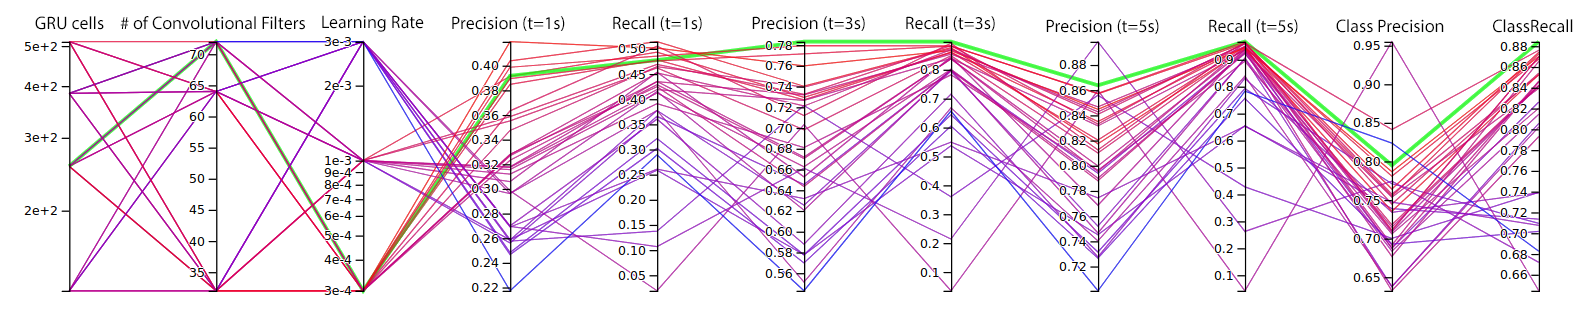
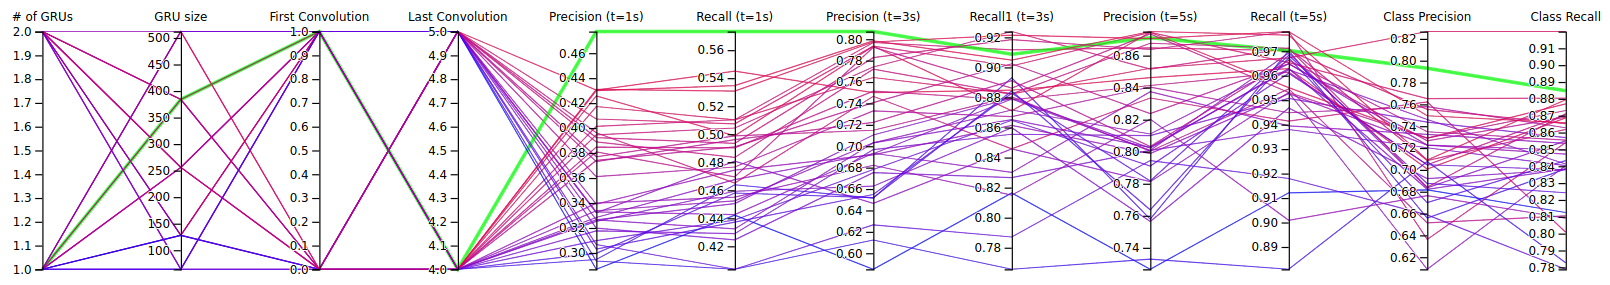
Updated RQ5 with new numbers

diff --git a/7_3_results.tex b/7_3_results.tex
@@ -140,14 +140,14 @@ The 100\% recalls are accompanied with a low precision; achieving that is not di
 The setting that got most of the best numbers is Pelt algorithm using an L1 cost function and a high penalty coefficient of 1,000. However, please note that Pelt is a quite slow algorithm that could easily become infeasible to run on larger dataset, as it was the case for the first two RQs. 
 As a matter of fact, running Pelt took more than 14 hours on the same machine that performed all other CPD algorithms in less than 1 hour. What you see in table~\ref{tab:cpd_paparazzi} is the summary of the results of more than 23,800 experiments. 
 
-Comparing the baseline results with the neural network model's results in the last three rows of the table, you can see improvements of 48.9\%, 26.83\%, and 11.46\% in F1 scores compared to the best numbers in the baselines (for $\tau = 1, 3, 5$ seconds respectively). Although this model still performed better than the baselines, the improvement margin was higher in RQ1. (see the RQ1 results summary box and the paragraph above that). % in section~\ref{sec:results}). 
+Comparing the baseline results with the neural network model's results in the last three rows of the table, you can see improvements of 23.35\%, 26.87\%, and 13.86\% in F1 scores compared to the best numbers in the baselines (for $\tau = 1, 3, 5$ seconds respectively). Although this model still performed better than the baselines, the improvement margin was higher in RQ1. (see the RQ1 results summary box and the paragraph above that). % in section~\ref{sec:results}). 
 However, you can see that the scores that this approach achieved are not low, but the baselines could do a better job on Paparazzi's data compared to MicroPilot's, therefore shrinking the margin of improvement. 
 It can be due to the fact that the new dataset is tiny compared to MP, classic machine learning algorithms can do better so a deep learning model cannot shine here as it could for MP. 
 As a reminder: Paparazzi dataset consists of ~300 tests, each containing up to 2,500 samples vs. ~900 tests in MP with lengths up to 18,000 samples. 
 It is worth mentioning that both in the first two RQs and here, the variation in baselines performances was way higher while my deep learning approach shows a more consistent performance; check the second column (recall with $\tau=1$s) for example. 
 
 \begin{rqanswer}
-The proposed approach was applied on another similar software system with a smaller dataset size and showed a near 49\% improvement over the baselines, confirming that it is a feasible approach even with smaller dataset size. The lower margin of improvement compared to RQ1 is attributed to the baselines performing better on this data, rather than my approach not performing good enough.
+The proposed approach was applied on another similar software system with a smaller dataset size and showed a near 27\% improvement over the baselines (with a 94\% F1 score), confirming that it is a feasible approach even with smaller dataset size. The lower margin of improvement compared to RQ1 is attributed to the baselines performing better on this data, rather than my approach not performing good enough.
 \end{rqanswer}
 
 \begin{sidewaystable}
@@ -169,37 +169,37 @@ The proposed approach was applied on another similar software system with a smal
   \textbf{F1} \\
                                                   &              &   & \multicolumn{3}{c}{$\tau=1$s} & \multicolumn{3}{c}{$\tau=3$s} & \multicolumn{3}{c}{$\tau=5$s} \\  \toprule
 \multirow{3}{*}{\textbf{Autoregressive Model}}
-    & Bottom Up & 500  &       13.65\% &    14.13\% & 18.89\% &        39.73\% &     36.40\% & 36.14\% &        57.11\% &     53.20\% & 50.04\% \\
-    & Pelt & 500  &       13.56\% &    13.85\% & 19.03\% &        39.67\% &     36.17\% & 36.03\% &        56.97\% &     52.89\% & 49.83\% \\
-    & Window Based & 100  &       15.97\% &     7.59\% & 13.54\% &        45.47\% &     20.40\% & 29.56\% &        64.16\% &     30.76\% & 41.20\% \\ \midrule
+    & Bottom Up    & 500  & 13.65\% &    14.13\% & 18.89\% & 39.73\% &     36.40\% & 36.14\% & 57.11\% &     53.20\% & 50.04\% \\
+    & Pelt         & 500  & 13.56\% &    13.85\% & 19.03\% & 39.67\% &     36.17\% & 36.03\% & 56.97\% &     52.89\% & 49.83\% \\
+    & Window Based & 100  & 15.97\% &     7.59\% & 13.54\% & 45.47\% &     20.40\% & 29.56\% & 64.16\% &     30.76\% & 41.20\% \\ \midrule
 \multirow{3}{*}{\textbf{Least Absolute Deviation}}
-    & Window Based & 100  &       24.50\% &    15.92\% & 19.85\% &        56.39\% &     37.24\% & 44.53\% &        68.94\% &     48.20\% & 56.23\% \\
-    & Pelt & 1000 &       \textbf{26.74\%} &    34.08\% & 29.92\% &        \textbf{60.77\%} &     77.32\% & \textbf{67.74\%} &        \textbf{74.73\%} &     93.16\% & \textbf{82.61\%} \\
-    & Bottom Up & 1000 &       26.66\% &\textbf{34.99\%}& 30.35\% &        60.11\% &     78.14\% & 67.61\% &        72.85\% &     92.94\% & 81.30\% \\ \midrule
+    & Window Based & 100  & 24.50\% &    15.92\% & 19.85\% & 56.39\% &     37.24\% & 44.53\% &        68.94\% &     48.20\% & 56.23\% \\
+    & Pelt         & 1000 &\textbf{26.74\%}&34.08\% & 29.92\% &\textbf{60.77\%}&     77.32\% &\textbf{67.74\%}&\textbf{74.73\%}&     93.16\% &\textbf{82.61\%}\\
+    & Bottom Up    & 1000 & 26.66\% &\textbf{34.99\%}& 30.35\% &        60.11\% &     78.14\% & 67.61\% &        72.85\% &     92.94\% & 81.30\% \\ \midrule
 \multirow{3}{*}{\textbf{Least Squared Deviation}}
-    & Window Based & 1000 &       25.01\% &    16.14\% & 20.26\% &        54.58\% &     35.77\% & 42.96\% &        68.73\% &     48.11\% & 56.18\% \\
-    & Pelt & 1000 &       21.28\% &    80.04\% & 33.49\% &        51.05\% &     99.58\% & 67.20\% &        65.36\% & \textbf{99.97\%} & 78.76\% \\
-    & Bottom Up & 1000 &       21.30\% &    81.24\% & \textbf{33.62\%} &        50.98\% &\textbf{99.50\%}& 67.12\% &        65.24\% &\textbf{99.97\%}& 78.66\% \\ \midrule
+    & Window Based & 1000 & 25.01\% &    16.14\% & 20.26\% & 54.58\% &     35.77\% & 42.96\% & 68.73\% &     48.11\% & 56.18\% \\
+    & Pelt         & 1000 & 21.28\% &    80.04\% & 33.49\% & 51.05\% &     99.58\% & 67.20\% & 65.36\% & \textbf{99.97\%} & 78.76\% \\
+    & Bottom Up    & 1000 & 21.30\% &    81.24\% & \textbf{33.62\%}  &     50.98\% &\textbf{99.50\%}& 67.12\% &        65.24\% &\textbf{99.97\%}& 78.66\% \\ \midrule
 \multirow{3}{*}{\textbf{Linear Model Change}}
-    & Bottom Up & 100  &        7.39\% &     0.39\% &  9.98\% &        27.44\% &      1.49\% & 10.27\% &        52.51\% &      2.75\% &  9.90\% \\
-    & Window Based & 100  &        7.39\% &     0.39\% &  9.98\% &        27.44\% &      1.49\% & 10.27\% &        52.51\% &      2.75\% &  9.90\% \\
-    & Pelt & 100  &        7.39\% &     0.39\% &  9.98\% &        27.44\% &      1.49\% & 10.27\% &        52.51\% &      2.75\% &  9.90\% \\ \midrule
+    & Bottom Up    & 100  &  7.39\% &     0.39\% &  9.98\% & 27.44\% &      1.49\% & 10.27\% & 52.51\% &      2.75\% &  9.90\% \\
+    & Window Based & 100  &  7.39\% &     0.39\% &  9.98\% & 27.44\% &      1.49\% & 10.27\% & 52.51\% &      2.75\% &  9.90\% \\
+    & Pelt         & 100  &  7.39\% &     0.39\% &  9.98\% & 27.44\% &      1.49\% & 10.27\% & 52.51\% &      2.75\% &  9.90\% \\ \midrule
 \multirow{3}{*}{\textbf{Gaussian Process Change}}
-    & Window Based & 100  &        7.39\% &     0.39\% &  9.98\% &        27.44\% &      1.49\% & 10.27\% &        52.51\% &      2.75\% &  9.90\% \\
-    & Pelt & 100  &        7.39\% &     0.39\% &  9.98\% &        27.44\% &      1.49\% & 10.27\% &        52.51\% &      2.75\% &  9.90\% \\
-    & Bottom Up & 100  &       12.42\% &   \textbf{100.00\%} & 22.03\% &        33.15\% &    \textbf{100.00\%} & 49.55\% &        49.04\% &    \textbf{100.00\%} & 65.47\% \\ \midrule
+    & Window Based & 100  &  7.39\% &     0.39\% &  9.98\% & 27.44\% &      1.49\% & 10.27\% & 52.51\% &      2.75\% &  9.90\% \\
+    & Pelt         & 100  &  7.39\% &     0.39\% &  9.98\% & 27.44\% &      1.49\% & 10.27\% & 52.51\% &      2.75\% &  9.90\% \\
+    & Bottom Up    & 100  & 12.42\% &\textbf{100.00\%}& 22.03\% &33.15\% &\textbf{100.00\%}& 49.55\% &        49.04\% &    \textbf{100.00\%} & 65.47\% \\ \midrule
 \multirow{2}{*}{\textbf{Rank-based Cost Function}}
-    & Pelt & 100  &       21.11\% &    31.85\% & 25.51\% &        52.29\% &     74.63\% & 61.13\% &        65.88\% &     89.30\% & 75.46\% \\
-    & Bottom Up & 100  &       20.55\% &    31.84\% & 25.17\% &        49.97\% &     73.22\% & 59.04\% &        64.57\% &     89.35\% & 74.61\% \\ \midrule
+    & Pelt         & 100  & 21.11\% &    31.85\% & 25.51\% & 52.29\% &     74.63\% & 61.13\% & 65.88\% &     89.30\% & 75.46\% \\
+    & Bottom Up    & 100  & 20.55\% &    31.84\% & 25.17\% & 49.97\% &     73.22\% & 59.04\% & 64.57\% &     89.35\% & 74.61\% \\ \midrule
 \multirow{3}{*}{\textbf{Kernelized Mean Change}} 
-    & Bottom Up & 100  &       15.66\% &     1.90\% &  9.45\% &        44.23\% &      5.36\% & 12.95\% &        62.37\% &      7.48\% & 15.66\% \\
-    & Pelt & 100  &       14.07\% &     1.64\% &  9.77\% &        42.06\% &      4.74\% & 12.59\% &        60.92\% &      6.67\% & 14.56\% \\
-    & Window Based & 100  &        8.31\% &     0.61\% &  9.97\% &        29.38\% &      2.02\% & 10.60\% &        53.34\% &      3.39\% & 10.79\% \\ \midrule \midrule
+    & Bottom Up    & 100  & 15.66\% &     1.90\% &  9.45\% & 44.23\% &      5.36\% & 12.95\% & 62.37\% &      7.48\% & 15.66\% \\
+    & Pelt         & 100  & 14.07\% &     1.64\% &  9.77\% & 42.06\% &      4.74\% & 12.59\% & 60.92\% &      6.67\% & 14.56\% \\
+    & Window Based & 100  &  8.31\% &     0.61\% &  9.97\% & 29.38\% &      2.02\% & 10.60\% & 53.34\% &      3.39\% & 10.79\% \\ \midrule \midrule
 \multirow{3}{*}{\textbf{My Approach}} 
     & \multirow{3}{*}{\textbf{Dataset:}}  
-         & \textbf{Validation} &  45.63\% &    55.46\% & 50.07\% &   81.39\% &     90.97\% & 85.92\% &   88.38\% &     97.12\% & 92.54\%  \\
-    & {} & \textbf{Test (Tuning)} &  42.65\% &    54.87\% & 47.99\% &   76.73\% &     90.96\% & 83.24\% &   85.18\% &     97.46\% & 90.91\%  \\
-    & {} & \textbf{Training}  &  39.81\% &    51.96\% & 45.08\% &   75.69\% &     90.62\% & 82.49\% &   84.96\% &     97.55\% & 90.82\%  \\
+         & \textbf{Validation}    &  37.81\% &    45.91\% & 41.47\% &   81.58\% &     90.79\% & 85.94\% &   90.53\% &     97.88\% & 94.06\% \\
+    & {} & \textbf{Test (Tuning)} &  39.76\% &    49.35\% & 44.04\% &   77.50\% &     89.70\% & 83.15\% &   86.85\% &     96.99\% & 91.64\% \\
+    & {} & \textbf{Training}      &  39.29\% &    49.74\% & 43.90\% &   75.52\% &     88.97\% & 81.69\% &   84.20\% &     96.33\% & 89.86\% \\
 \bottomrule
 \end{tabular}%
 }
@@ -240,7 +240,7 @@ You can see an $(81.92-68.96)-1=18.79\%$ improvement in F1 score, over the basel
 20 & Decision Tree &            - &      64.72\% &   73.36\% & 68.77\% \\ \midrule
 25 &  Ridge &            - &      62.13\% &   19.66\% & 29.87\% \\
 25 & Decision Tree & $\sqrt{10w}$ &      61.17\% &\textbf{75.18}\% & 67.45\% \\ \midrule \midrule
-   & \multicolumn{2}{l}{Proposed Method} & \textbf{71.13\%} & \textbf{88.69\%} & \textbf{81.92\%} \\
+   & \multicolumn{2}{l}{Proposed Method} & \textbf{72.63\%} & \textbf{87.63\%} & \textbf{79.43\%} \\
 \bottomrule
 \end{tabular}%
 }
@@ -270,17 +270,23 @@ I used Tensor Board to visualize and compare the effects of different hyper-para
 \end{figure}
 
 Filtering the data to find the commonalities of better hyper-parameters shows that the number of GRU cells has a high correlation with both CPD precision and classification precision. 
-It also shows that the kernel sizes and number of convolutional layers does not have an strong correlation with higher precision and recalls. The number of convolutional filters in each layer has a bigger impact on the performance than the size of the kernels does. 
-It makes sense because training larger kernels gets harder and harder and requires more data. Also, based on the previous studies, especially in the field of computer vision, we can say that each filter learns one feature so it is more effective to have many small filters that are easier to train and can learn multiple features of the data.
-Therefore I can reduce the size of convolutional section of the model and use more recurrent cells to boost the performance without adding too many parameters. I performed another set of tests in a smaller search space to further optimize the hyper-parameters.
+First and foremost the learning rate is has the largest correlation (absolute) with the performance metrics. The best configurations all share the lowest learning rate.
+Filtering the other configs out, the next most important factor was the convolutional layer counts. 
+The configurations that did not include the last and largest convolutional layer with kernel size of 20, performed much better than the others. 
+% It also shows that the kernel sizes and number of convolutional layers does not have an strong correlation with higher precision and recalls. 
+% The number of convolutional filters in each layer has a bigger impact on the performance than the size of the kernels does. 
+It makes sense because training larger kernels gets harder and harder and requires more data. 
+Also, based on the previous studies, especially in the field of computer vision, we can say that each filter learns one feature so it is more effective to have small filters that are easier to train and can learn multiple features of the data.
+Therefore I can reduce the size of convolutional section of the model and use more recurrent cells to boost the performance without adding too many parameters. 
+%I performed another set of tests in a smaller search space to further optimize the hyper-parameters.
 
-The new search space includes all combinations of these hyper-parameters:
+%The new search space includes all combinations of these hyper-parameters:
 
-\begin{enumerate}
-    \item Learning rate, options being: $3\times10^{-4}$, $1\times10^{-3}$, and $3\times10^{-3}$
-    \item Number of GRU cells, options: 128, 256, 384, and 512
-    \item Number of convolutional filters in each layer: 32, 64, and 72
-\end{enumerate}
+%\begin{enumerate}
+%    \item Learning rate, options being: $3\times10^{-4}$, $1\times10^{-3}$, and $3\times10^{-3}$
+%    \item Number of GRU cells, options: 128, 256, 384, and 512
+%    \item Number of convolutional filters in each layer: 32, 64, and 72
+%\end{enumerate}
 
 \begin{figure}
     \centering
@@ -288,14 +294,19 @@ The new search space includes all combinations of these hyper-parameters:
     \caption{Parallel coordinates view showing the effects of selected hyper-parameters on the performance measures.}
     \label{fig:precision_recall_parallel_coordinates}
 \end{figure}
-The results of the second iteration of tuning are shown in figure~\ref{fig:precision_recall_parallel_coordinates}. This chart shows 3 + 8 parallel axes, 3 hyper-parameters and 8 metrics. To make it more legible, the results with lower than 70\% precision ($\tau = 5s$) are omitted.
-The green highlighted line is the best configuration tried, with the highest area under the curve. That configuration has the best or close to the best performance in all metrics. The configuration is to use 256 GRU cells, 72 filter per layer, and the lower learning rate of $3\times10^{-4}$.
+%The results of the second iteration of 
+After filtering out some of the worst configurations (such as the ones with lower than 40\% Recall (t=1s)), the better ones are shown in figure~\ref{fig:precision_recall_parallel_coordinates}. 
+This chart shows 3 + 8 parallel axes, 3 hyper-parameters and 8 metrics. 
+% To make it more legible, the results with lower than 70\% precision ($\tau = 5s$) are omitted.
+The green highlighted line is the best configuration tried, with the highest area under the curve. That configuration has the best or close to the best performance in all metrics. 
+The configuration is to use 384 GRU cells in 1 layer, 16 filter per convolutional layer sizes from 5 to 15, and a slower learning rate of $3\times10^{-4}$.
 I used this set of hyper-parameters to train the best model. The stopping criteria on training the model was for the validation loss to plateau, with a `patience' of 10 epochs. The optimizer converged in 54 epochs, after less than 3 minutes of training.
 You can see the performance scores of the tuned model in tables~\ref{tab:rq2-1-results-replicate} and \ref{tab:cpd_paparazzi}.
 % The scores used in the research question 3 and 4 are the evaluation results of this model on the [previously unseen] validation data. 
 
-The sensitivity of this approach to the hyper parameter tuning can be seen clearly here. I started the first iteration with the hyper-parameters that worked best for MP and the values close to them. With that set of hyper-parameters the performance was even worse than the baselines in some cases; see table~\ref{tab:results_no_tuning}.
-In the second iteration, after removing the worst performing configurations and defining a new search space, that set of parameters was discarded. 
+The sensitivity of this approach to the choice of hyper parameters can be seen clearly here. I first started with the hyper-parameters that worked best for MP and the values close to them. With that set of hyper-parameters the performance was even worse than the baselines in some cases; see table~\ref{tab:results_no_tuning}.
+In the second iteration, after removing the worst performing configurations and defining a search space, that set of parameters was discarded. 
+Even though the search space was not very large, the range of 
 This is to emphasize the effect and importance of fine-tuning hyper-params.
 
 \begin{table}[]
@@ -303,18 +314,18 @@ This is to emphasize the effect and importance of fine-tuning hyper-params.
     \begin{tabular}{lcc}
     \toprule
 \textbf{Evaluation Metric} & \textbf{Default Hyper-params} & \textbf{Tuned Hyper-params} \\\midrule
-Precision ($\tau=1s$)      &  28.90\%  &  45.63\% \\
-Recall ($\tau=1s$)         &  37.44\%  &  55.46\% \\
-F1 ($\tau=1s$)             &  32.62\%  &  50.07\% \\ \midrule
-Precision ($\tau=3s$)      &  59.34\%  &  81.39\% \\
-Recall ($\tau=3s$)         &  71.52\%  &  90.97\% \\
-F1 ($\tau=3s$)             &  64.87\%  &  85.92\% \\ \midrule
-Precision ($\tau=5s$)      &  73.85\%  &  88.38\% \\
-Recall ($\tau=5s$)         &  85.18\%  &  97.12\% \\
-F1 ($\tau=5s$)             &  79.11\%  &  92.54\% \\ \midrule
-State Detection Precision  &  57.35\%  &  71.13\% \\
-State Detection Recall     &  78.90\%  &  88.69\% \\
-State Detection F1         &  66.41\%  &  81.92\% \\
+Precision ($\tau=1s$)      &  28.90\%  &  37.81\% \\
+Recall ($\tau=1s$)         &  37.44\%  &  45.91\% \\
+F1 ($\tau=1s$)             &  32.62\%  &  41.47\% \\ \midrule
+Precision ($\tau=3s$)      &  59.34\%  &  81.58\% \\
+Recall ($\tau=3s$)         &  71.52\%  &  90.79\% \\
+F1 ($\tau=3s$)             &  64.87\%  &  85.94\% \\ \midrule
+Precision ($\tau=5s$)      &  73.85\%  &  90.53\% \\
+Recall ($\tau=5s$)         &  85.18\%  &  97.88\% \\
+F1 ($\tau=5s$)             &  79.11\%  &  94.06\% \\ \midrule
+State Detection Precision  &  57.35\%  &  72.63\% \\
+State Detection Recall     &  78.90\%  &  87.63\% \\
+State Detection F1         &  66.41\%  &  79.43\% \\
 \bottomrule
     \end{tabular}
     \caption{The performance results of the model trained on paparazzi before hyper parameter tuning (i.e. using the hyper-parameters that worked best for MP on Paparazzi as well) vs. after fine-tuning hyper-params on Paparazzi's dataset.}

diff --git a/2_frontmatter.tex b/2_frontmatter.tex
@@ -10,11 +10,11 @@ To overcome the above issues, in this thesis, I proposed a hybrid deep neural ne
 I have applied this approach on two real UAV autopilot case studies: one from our industry partner, MicroPilot (MP in short), with half a million lines of C code, and one widely used open source solution: Paparazzi. 
 I ran more than 1200 system-level tests in total (to generate the input data) and inferred the system's internal state, over time.
 In case of Paparazzi, as it did not include system tests like MP, I created a tool that generates and executes meaningful test scenarios.
-Comparison with several traditional time series change point detection techniques showed that this approach improves their performance by up to 102\% in MP's case and 49\% in Paparazzi's, in terms of finding state change points, measured by F1 score. I also showed that this state classification algorithm provides on average 90.45\% F1 score for MP and 81.92\% for Paparazzi, which improves traditional classification algorithms by up to 17\% in MP's case and 18\% in Paparazzi's.
+Comparison with several traditional time series change point detection techniques showed that this approach improves their performance by up to 102\% in MP's case and 49\% in Paparazzi's, in terms of finding state change points, measured by F1 score. I also showed that this state classification algorithm provides on average 90.45\% F1 score for MP and 79.43\% for Paparazzi, which improves traditional classification algorithms by up to 17\% in MP's case and 15\% in Paparazzi's.
 
 %Furthermore, I verified efficacy of this approach with a second case study: Paparazzi open source autopilot. As it did not include system tests like MP, I created a tool that generates and runs fuzzy test scenarios. Using the tool I generated and executed 378 test cases %325 test cases using different permutations of a flight plan; I used the fuzzy test execution tool to run 378 simulations using those scenarios; some scenarios were used twice but due to fuzzing in other parameters the generated data are different. I used the data that was produced during those executions for replication. 
 %The improvements of this approach over the baselines, as measured by F1 score, were up to 49\% in change point detection and up to 68\% for state detection.
-In addition, by creating a hyper-parameter tuning pipeline using grid search technique, despite having a way smaller training set in the second case study (7 times smaller compared to the first one), I managed to get a better performance, up to 42\% better, out of the neural network model as measured by 8 metrics.
+In addition, by creating a hyper-parameter tuning pipeline using grid search technique, despite having a way smaller training set in the second case study (7 times smaller compared to the first one), I managed to get a better performance, up to 37\% better, out of the neural network model as measured by 8 metrics.
 The tuning performance is compared to using the same hyper-parameters that worked for MP's case, for Paparazzi.%  As a result, in addition to confirming that the technique is applicable on other software, I.
 
 % \end{abstract}

diff --git a/7_1_RQs.tex b/7_1_RQs.tex
@@ -90,15 +90,17 @@ In RQ4 I used the same configurations and procedures as the MP's case (RQ2), wit
 \subsection{Hyper-parameter optimization (RQ 5)}
 I designed a model creation and evaluation pipeline that takes hyper-parameters as the input and outputs the model performance scores on test data (a.k.a. tuning data) as its output. The hyper-parameters that I searched over are:
 \begin{itemize}
-    \item Number of GRU cells in the recurrent section: between 32 and 256
-    \item Number of convolutional filters in each layer: between 16 to 64
-    \item The size of convolution kernels and the number of convolutional layers: between 3 to 5 layers with increasing kernel size
-    \item The learning rate of Adam optimizer: from $1\times 10^{-4}$ to $3\times10^{-3}$
+    \item Number of GRU layers: 1 or 2
+    \item Number of GRU cells in the recurrent section: 5 values between 64 and 512
+    \item Number of convolutional filters in each layer: 4 values between 16 to 72
+    \item The size of convolution kernels and the number of convolutional layers: between 3 to 6 layers with increasing kernel size, starting from kernel sizes 3 or 5
+    \item The learning rate of Adam optimizer: 3 values from $3\times 10^{-4}$ to $3\times10^{-3}$
 \end{itemize}
 Please refer to figure~\ref{fig:model_arch} for a recap on these hyper-parameters. 
 I performed a grid search over these parameters, using Tensor Board for keeping track of the metrics and finding the right balance. 
 Tensor Board is a monitoring tool made for TensorFlow that provides great insight for better training TensorFlow models.
-I should note that I did not perform an inefficient exhaustive search there. I first searched over a small grid to see which parameters have the most influence on improving the metrics. Then I refined the search space and performed a second iteration of searching for better set of hyper-params in a smarter way.
+In total, there were 480 configurations that were used to train models on training dataset and evaluated on test (tuning) dataset. 
+% I should note that I did not perform an inefficient exhaustive search there. I first searched over a small grid (of 360 configurations) to see which parameters are most influential on the metrics. Then I refined the search space and performed a second iteration of searching for better set of hyper-params in a smarter way.
 
 \subsection{Choice of Paparazzi for the case study}
 % I chose Paparazzi autopilot as an open source alternative to MP's autopilot for replication. 

diff --git a/3_Introduction.tex b/3_Introduction.tex
@@ -28,7 +28,8 @@ I evaluated the method from two perspectives: how well the model can detect the 
 
 
 
-Comparing the proposed approach with state-of-the-art alternatives, shows that it performs better in both change point and state detection. In MP's case study I observed 88.00\% to 102.20\% improvement in the F1 score of this CPD, compared to traditional CPD techniques. In addition, I saw a 7.35\% to 16.83\% improvement in the F1 score of state detection, compared to traditional classification algorithms on a sliding window, over the data. The same number for the other case study were 12\% to 49\% improvement in CPD and 18\% to 274\% improvement in state detection.
+Comparing the proposed approach with state-of-the-art alternatives, shows that it performs better in both change point and state detection. In MP's case study I observed 88.00\% to 102.20\% improvement in the F1 score of this CPD, compared to traditional CPD techniques. In addition, I saw a 7.35\% to 16.83\% improvement in the F1 score of state detection, compared to traditional classification algorithms on a sliding window, over the data. 
+The same numbers for the other case study were 14\% to 27\% improvement in CPD and 11.64\% to 16.56\% improvement in state detection.
 
 
 The contributions of this thesis can be summarised as:
